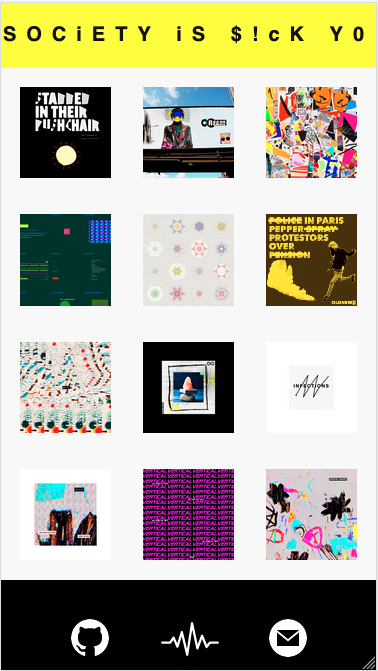
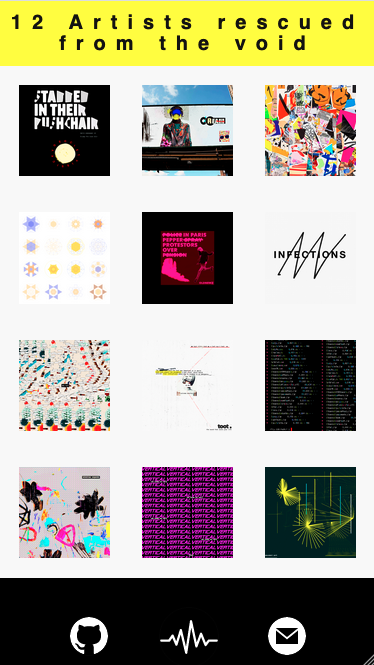
fix scroll bounce when modal open + remove unused images

diff --git a/style.css b/style.css
@@ -10,6 +10,13 @@ body{
   background-color: #f9f9f9;
   color: #323232;
 }
+body.no-scroll {
+  overflow: hidden;
+  position: fixed;
+  width: 100%;
+  height: 100%;
+}
+
 img{
   max-width: 100%;
   max-height: 100%;
@@ -115,11 +122,6 @@ a{
   margin: 0 10px;
   user-select: none;
 }
-
-.no-scroll {
-  overflow: hidden;
-}
-
 
 
 /* SOCIALS */
